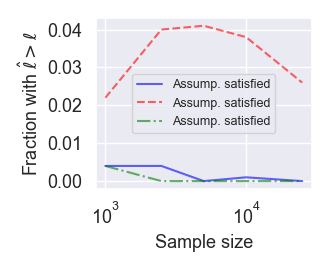
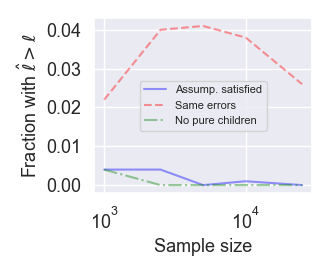
finished plots with error bars

diff --git a/experiments/experiment_assump_violated/create-plots.py b/experiments/experiment_assump_violated/create-plots.py
@@ -25,28 +25,35 @@ stats = {"2": stats2, "3": stats3, "4": stats4}
 with open(f"experiments/experiment_assump_violated/results/stats.json", 'w') as f:
     json.dump(stats, f)
 
+#with open(f"experiments/experiment_assump_violated/results/stats.json", 'r') as f:
+#    stats = json.load(f)
+#nsamples_list = [1000, 2500, 5000, 10000, 25000]
+#stats2 = stats["2"]
+#stats3 = stats["3"]
+#stats4 = stats["4"]
+
 # Create plots
 labels=["Assump. satisfied", "Same errors", "No pure children"]
 
 plot(nsamples_list, stats2["number_shared"], stats3["number_shared"], stats4["number_shared"],
                 ylabel="Average of $\hat{\ell}$",
                 path="experiments/experiment_assump_violated/results/avg-shared-nodes.png", 
-                ylim=(-0.1,3.1), labels=labels, legendfontsize=9, error_bars=True)
+                ylim=(-0.1,3.1), labels=labels, legendfontsize=8, error_bars=True)
 
 plot(nsamples_list, stats2["too_many_shared_rate"], stats3["too_many_shared_rate"], stats4["too_many_shared_rate"],
                 ylabel="Fraction with $\hat{\ell} > \ell$",
                 path="experiments/experiment_assump_violated/results/too-many-shared-nodes.png", 
-                labels=labels, legendfontsize=9, error_bars=False)
+                labels=labels, legendfontsize=8, error_bars=False)
 
 plot(nsamples_list, stats2["mixing_error"], stats3["mixing_error"], stats4["mixing_error"],
                 ylabel="Median score$_B$",
                 path="experiments/experiment_assump_violated/results/mixing-error.png", 
-                labels=labels, legendfontsize=9, error_bars=True)
+                labels=labels, legendfontsize=8, error_bars=True)
 
 plot(nsamples_list, stats2["graph_error"], stats3["graph_error"], stats4["graph_error"],
                 ylabel="Median score$_A$",
                 path="experiments/experiment_assump_violated/results/graph-error.png", 
-                labels=labels, legendfontsize=9, error_bars=True)
+                labels=labels, legendfontsize=8, error_bars=True)
 
 # Total time in hours: 
 total_time = stats2["total_time"] + stats3["total_time"] + stats4["total_time"]

diff --git a/experiments/utils.py b/experiments/utils.py
@@ -124,7 +124,7 @@ def plot(nsamples_list, stats2, stats3, stats4, ylabel="Score", path="test.png",
         yerr_upper = np.asarray(stats2["upper"]) - np.asarray(stats2["mean"])
         yerr = np.row_stack((yerr_lower, yerr_upper))
     plt.errorbar(x=nsamples_list, y=stats2["mean"], yerr=yerr,
-                 linestyle="-", color="blue", label=labels[0], alpha=0.6, barsabove=True)
+                 linestyle="-", color="blue", label=labels[0], alpha=0.4)
     #plt.plot(nsamples_list, stats2["mean"], "-", color="blue", label=labels[0])
     #if (stats2["lower"] is not None) and error_bars:
     #    plt.fill_between(nsamples_list, stats2["lower"], stats2["upper"], alpha=0.5)
@@ -135,7 +135,7 @@ def plot(nsamples_list, stats2, stats3, stats4, ylabel="Score", path="test.png",
         yerr_upper = np.asarray(stats3["upper"]) - np.asarray(stats3["mean"])
         yerr = np.row_stack((yerr_lower, yerr_upper))
     plt.errorbar(x=nsamples_list, y=stats3["mean"], yerr=yerr,
-                 linestyle="--", color="red", label=labels[0], alpha=0.6)
+                 linestyle="--", color="red", label=labels[1], alpha=0.4, elinewidth=3)
     #plt.plot(nsamples_list, stats3["mean"], "--", color="red", label=labels[1])
     #if (stats3["lower"] is not None) and error_bars:
     #    plt.fill_between(nsamples_list, stats3["lower"], stats3["upper"], alpha=0.5)
@@ -147,7 +147,7 @@ def plot(nsamples_list, stats2, stats3, stats4, ylabel="Score", path="test.png",
             yerr_upper = np.asarray(stats4["upper"]) - np.asarray(stats4["mean"])
             yerr = np.row_stack((yerr_lower, yerr_upper))
         plt.errorbar(x=nsamples_list, y=stats4["mean"], yerr=yerr,
-                 linestyle="-.", color="green", label=labels[0], alpha=0.6)
+                 linestyle="-.", color="green", label=labels[2], alpha=0.4, elinewidth=5)
         #plt.plot(nsamples_list, stats4["mean"], "-.", color="green", label=labels[2])
         #if (stats4["lower"] is not None) and error_bars:
         #    plt.fill_between(nsamples_list, stats4["lower"], stats4["upper"], alpha=0.5)

diff --git a/experiments/experiment_l=5/create-plots.py b/experiments/experiment_l=5/create-plots.py
@@ -25,26 +25,33 @@ stats = {"2": stats2, "3": stats3, "4": stats4}
 with open(f"experiments/experiment_l=5/results/stats.json", 'w') as f:
     json.dump(stats, f)
 
+with open(f"experiments/experiment_l=5/results/stats.json", 'r') as f:
+    stats = json.load(f)
+nsamples_list = [1000, 2500, 5000, 10000, 25000]
+stats2 = stats["2"]
+stats3 = stats["3"]
+stats4 = stats["4"]
+
 # Create plots
 plot(nsamples_list, stats2["number_shared"], stats3["number_shared"], stats4["number_shared"],
                 ylabel="Average of $\hat{\ell}$",
                 path="experiments/experiment_l=5/results/avg-shared-nodes.png", 
-                ylim=(-0.1,5.1), error_bars=True)
+                ylim=(-0.1,5.1),  legendfontsize=8, error_bars=True)
 
 plot(nsamples_list, stats2["too_many_shared_rate"], stats3["too_many_shared_rate"], stats4["too_many_shared_rate"],
                 ylabel="Fraction with $\hat{\ell} > \ell$",
                 path="experiments/experiment_l=5/results/too-many-shared-nodes.png", 
-                legendfontsize=9, error_bars=False)
+                legendfontsize=8, error_bars=False)
 
 plot(nsamples_list, stats2["mixing_error"], stats3["mixing_error"], stats4["mixing_error"],
                 ylabel="Median score$_B$",
                 path="experiments/experiment_l=5/results/mixing-error.png", 
-                error_bars=True)
+                error_bars=True,legendfontsize=8)
 
 plot(nsamples_list, stats2["graph_error"], stats3["graph_error"], stats4["graph_error"],
                 ylabel="Median score$_A$",
                 path="experiments/experiment_l=5/results/graph-error.png", 
-                error_bars=True)
+                error_bars=True, legendfontsize=8)
 
 # Total time in hours: 
 total_time = stats2["total_time"] + stats3["total_time"] + stats4["total_time"]

diff --git a/experiments/experiment_l=3/create-plots.py b/experiments/experiment_l=3/create-plots.py
@@ -26,26 +26,33 @@ stats = {"2": stats2, "3": stats3}
 with open(f"experiments/experiment_l=3/results_gamma={gamma}/stats.json", 'w') as f:
     json.dump(stats, f)
 
+#with open(f"experiments/experiment_l=3/results_gamma={gamma}/stats.json", 'r') as f:
+#    stats = json.load(f)
+
+#nsamples_list = [1000, 2500, 5000, 10000, 25000]
+#stats2 = stats["2"]
+#stats3 = stats["3"]
+
 # Create plots
 plot(nsamples_list, stats2["number_shared"], stats3["number_shared"], None,
                 ylabel="Average of $\hat{\ell}$",
                 path=f"experiments/experiment_l=3/results_gamma={gamma}/avg-shared-nodes.png", 
-                ylim=(-0.1,3.1), error_bars=True)
+                ylim=(-0.1,3.1), legendfontsize=10, error_bars=True)
 
 plot(nsamples_list, stats2["too_many_shared_rate"], stats3["too_many_shared_rate"], None,
                 ylabel="Fraction with $\hat{\ell} > \ell$",
                 path=f"experiments/experiment_l=3/results_gamma={gamma}/too-many-shared-nodes.png", 
-                error_bars=False)
+                error_bars=False, legendfontsize=10)
 
 plot(nsamples_list, stats2["mixing_error"], stats3["mixing_error"], None,
                 ylabel="Median score$_B$",
                 path=f"experiments/experiment_l=3/results_gamma={gamma}/mixing-error.png", 
-                error_bars=True)
+                error_bars=True, legendfontsize=10)
 
 plot(nsamples_list, stats2["graph_error"], stats3["graph_error"], None,
                 ylabel="Median score$_A$",
                 path=f"experiments/experiment_l=3/results_gamma={gamma}/graph-error.png", 
-                error_bars=True)
+                error_bars=True, legendfontsize=10)
 
 # Total time in hours: 
 total_time = stats2["total_time"] + stats3["total_time"]
